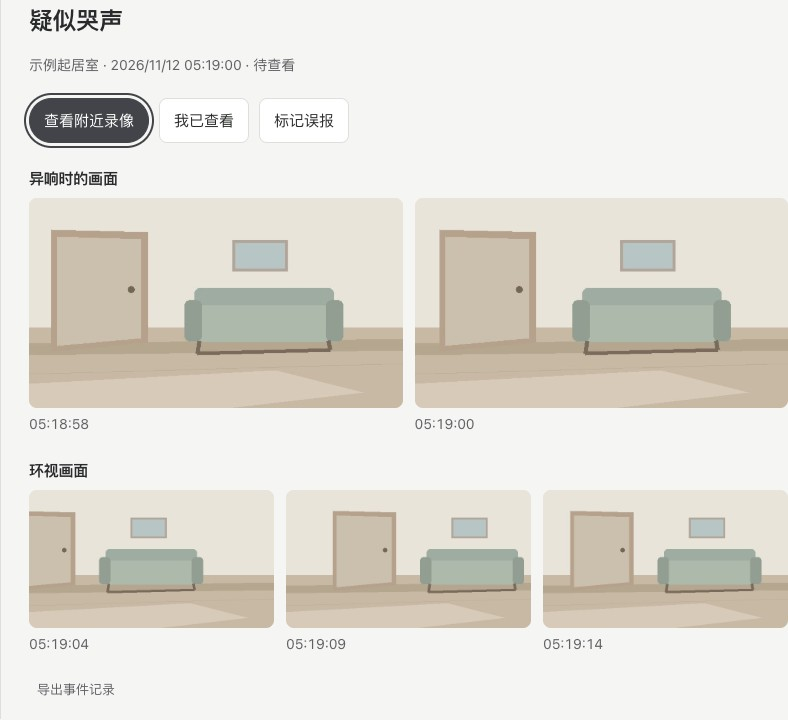
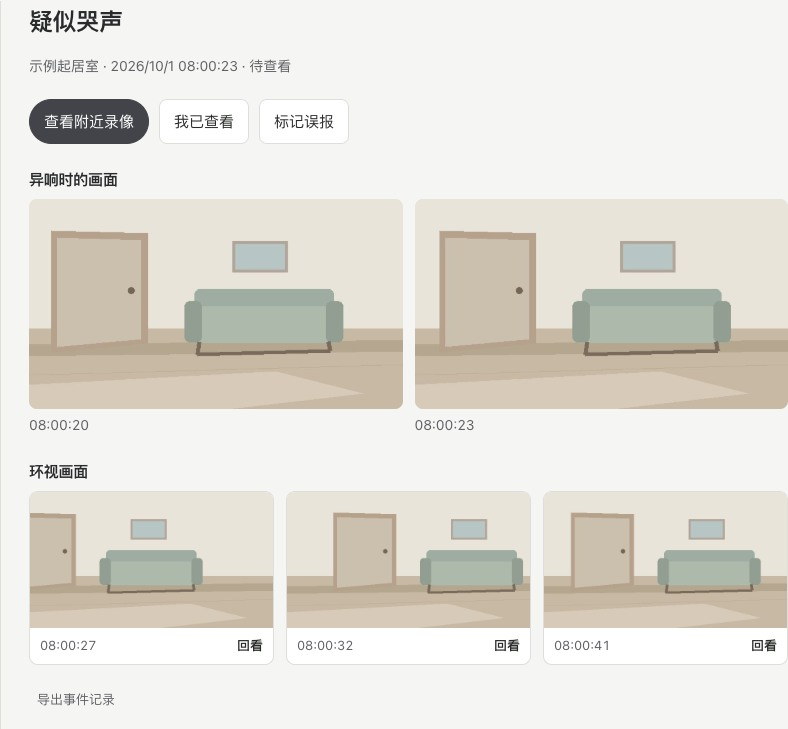
文档：说明异响环视的按帧回看

diff --git a/docs/guides/safety.md b/docs/guides/safety.md
@@ -32,6 +32,10 @@
 
 ![同一条声音提醒中的事发画面和环视画面，示例提醒](../assets/screenshots/friday-sound-search-evidence.jpg)
 
+点击某张环视画面的「回看」，查看该画面采集前后的录像。查看异响发生时的录像，可用详情顶部的「查看附近录像」。录像需要事先对应到这台摄像头。
+
+监测状态暂时无法读取时，仍可打开已保存的提醒和关键帧。
+
 **听到声音就会马上转向吗？** 镜头会先保存复核结果。正在使用手动停留、玩体感游戏或复核画面时，优先保留原视角。摄像头声音只用于确定是哪一台镜头收到异响，声源方位需结合画面核对。
 
 关闭「异响后环视」可只保留声音复核。关闭声音复核也会同时关闭环视。

diff --git a/docs/troubleshooting/faq.md b/docs/troubleshooting/faq.md
@@ -144,7 +144,7 @@
 
 ## Q34. 在哪里查看异响后镜头看到的画面？
 
-打开这条声音提醒。镜头确认了新视角并保存后，详情会显示「环视画面」。可以和异响时的画面一起看，也可继续查找附近录像。详见[异响后查看附近画面](../guides/safety.md#异响后查看附近画面)。
+打开这条声音提醒。镜头确认了新视角并保存后，详情会显示「环视画面」。点击某张环视画面的「回看」，可以查看该画面采集前后的录像。监测状态暂时不可用时，已存提醒仍可打开。详见[异响后查看附近画面](../guides/safety.md#异响后查看附近画面)。
 
 ## Q35. 收到疑似跌倒提醒后，在哪里看当时的画面？
 
